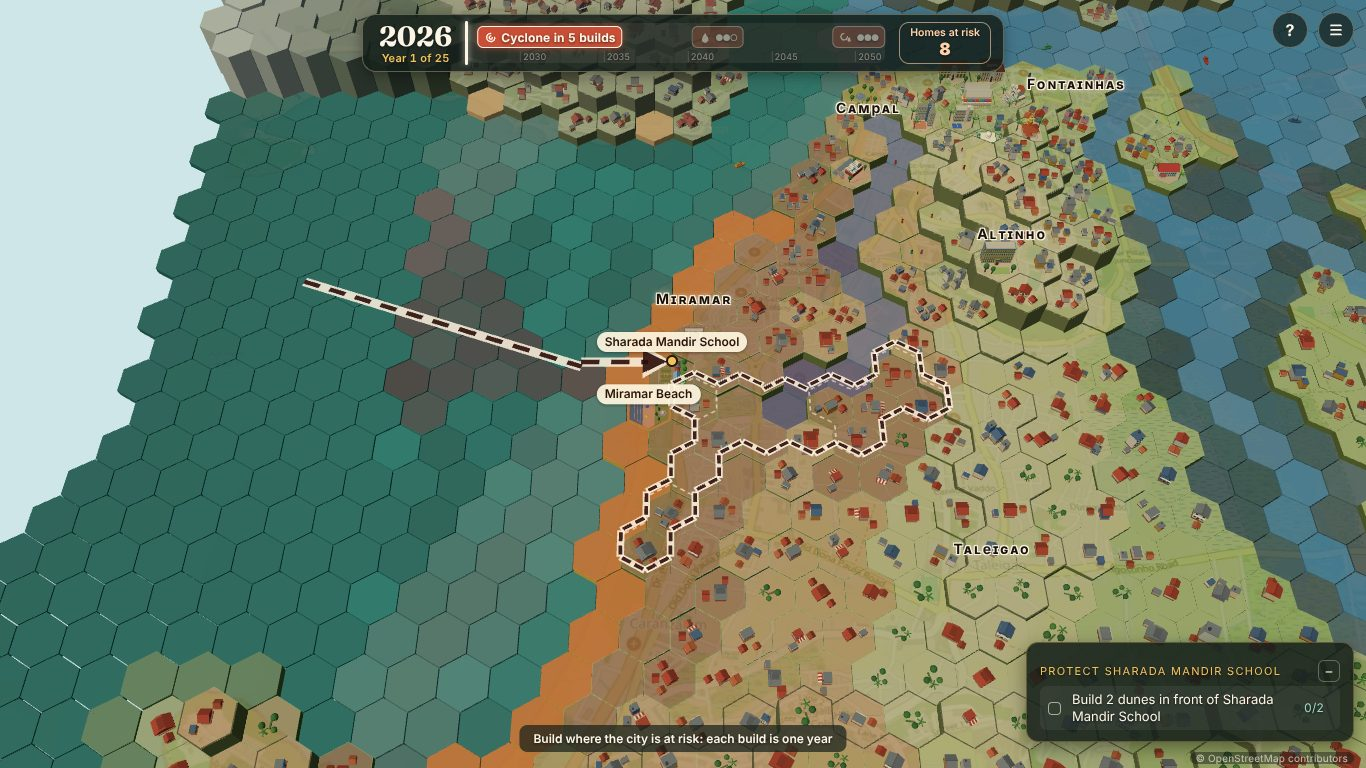
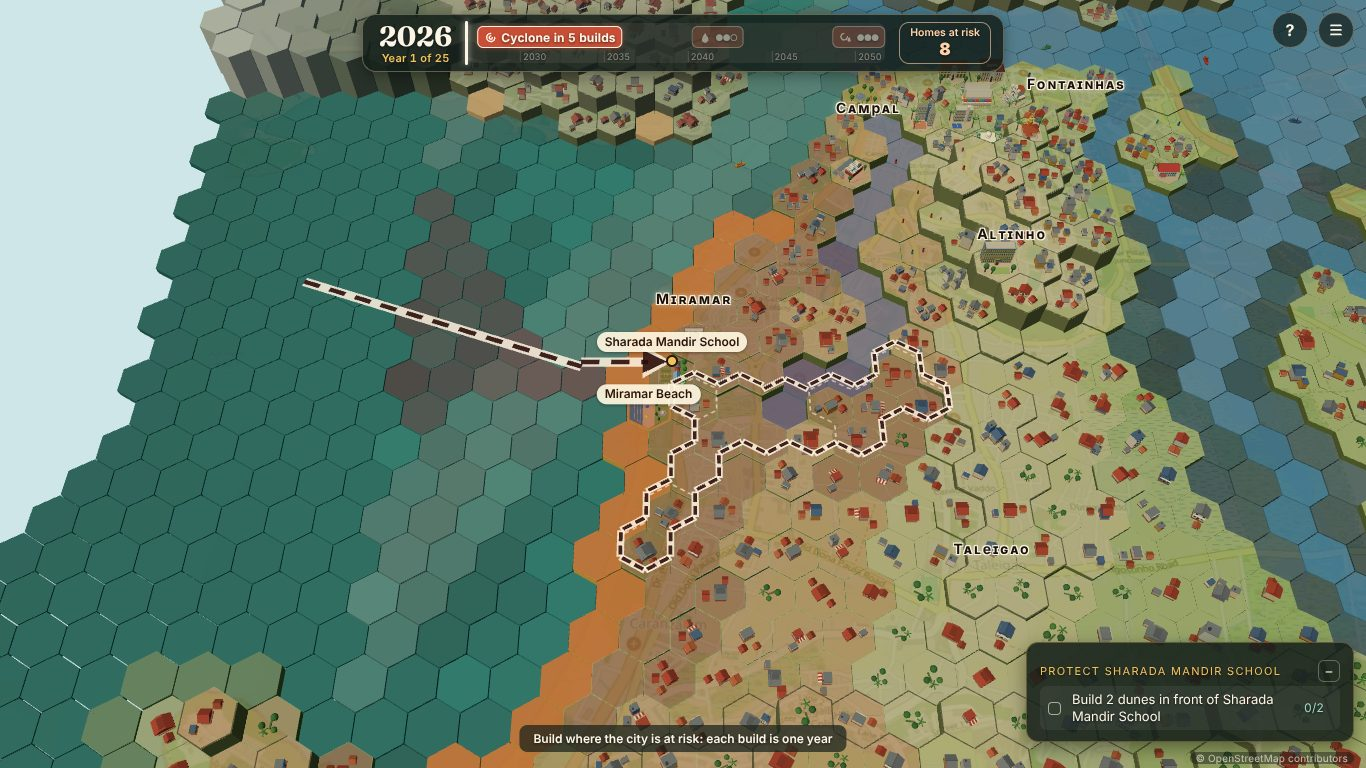
Section 19: QA report and progress notes (results to fill)
Claude-Session: https://claude.ai/code/session_01CR8PN9tFYneT4rrWy2Y36p

Changed region(s): [[0.246, 0.0938, 0.6149, 1.0], [0.3075, 0.125, 0.4305, 0.3438], [0.5842, 0.0, 0.6149, 0.0312]]

diff --git a/docs/qa/section19/bots-after.md b/docs/qa/section19/bots-after.md
@@ -2,3 +2,124 @@
 > riptide-rising@1.0.0 bots
 > tsx tools/panjimBots/index.ts
 
+## Archetypes
+
+20 seeds: bot-seed-1, bot-seed-2, bot-seed-3, bot-seed-4, bot-seed-5, bot-seed-6, bot-seed-7, bot-seed-8, bot-seed-9, bot-seed-10, bot-seed-11, bot-seed-12, bot-seed-13, bot-seed-14, bot-seed-15, bot-seed-16, bot-seed-17, bot-seed-18, bot-seed-19, bot-seed-20
+
+A run is **won** when the level ends on three stars (the storms' stars averaged and rounded: at most one storm short of three stars, none below two). **2★ every storm** is the softer reading: every storm at two stars or more.
+
+| Archetype | Won | 2★ every storm | Houses saved (all storms) | min | median | max | Stars per storm (mean) | Index (mean) |
+|---|---|---|---|---|---|---|---|---|
+| casual | 0/20 (0%) | 0/20 | 70% | 64% | 70% | 81% | 1.0 / 3.0 / 2.0 | 55 |
+| greedy | 0/20 (0%) | 0/20 | 25% | 11% | 26% | 57% | 1.1 / 1.1 / 1.1 | 43 |
+| smart | 16/20 (80%) | 16/20 | 91% | 69% | 92% | 97% | 2.6 / 3.0 / 3.0 | 55 |
+| far | 0/20 (0%) | 0/20 | 0% | 0% | 0% | 0% | 1.0 / 1.0 / 1.0 | 24 |
+
+Greedy beats Casual on 0 of 20 seeds.
+
+## How often the wind decides a home (Section 12)
+
+Homes lost whose water alone stayed under the house-loss line: the wind tipped them. Mean per run, and as a share of the homes lost in that storm.
+
+| Archetype | 2030 cyclone | 2040 flood | 2050 compound |
+|---|---|---|---|
+| casual | 0.0 (0%) | 0.0 (0%) | 0.6 (2%) |
+| greedy | 0.0 (0%) | 0.0 (0%) | 1.0 (1%) |
+| smart | 0.0 (0%) | 0.0 (0%) | 0.0 (0%) |
+| far | 0.0 (0%) | 0.0 (0%) | 1.0 (1%) |
+
+## Every run
+
+| Archetype | Seed | Storm 1 saved | Storm 2 saved | Storm 3 saved | All | Stars | Won | Builds | Resilience | Biodiversity | Population | Food |
+|---|---|---|---|---|---|---|---|---|---|---|---|---|
+| casual | bot-seed-1 | 3/8 | 54/62 | 75/106 | 75% | 132 | no | 25 | 68 | 13 | 46 | 36 |
+| casual | bot-seed-2 | 3/8 | 57/62 | 72/106 | 75% | 132 | no | 25 | 68 | 25 | 45 | 39 |
+| casual | bot-seed-3 | 3/8 | 52/62 | 60/106 | 65% | 132 | no | 25 | 62 | 17 | 44 | 43 |
+| casual | bot-seed-4 | 3/8 | 46/62 | 64/106 | 64% | 122 | no | 25 | 62 | 8 | 44 | 34 |
+| casual | bot-seed-5 | 3/8 | 57/62 | 57/106 | 66% | 132 | no | 25 | 63 | 40 | 44 | 44 |
+| casual | bot-seed-6 | 3/8 | 56/62 | 72/106 | 74% | 132 | no | 25 | 68 | 20 | 45 | 36 |
+| casual | bot-seed-7 | 3/8 | 57/62 | 80/106 | 80% | 132 | no | 25 | 71 | 25 | 46 | 42 |
+| casual | bot-seed-8 | 3/8 | 60/62 | 74/106 | 78% | 132 | no | 25 | 70 | 3 | 45 | 39 |
+| casual | bot-seed-9 | 3/8 | 54/62 | 64/106 | 69% | 132 | no | 25 | 64 | 0 | 44 | 34 |
+| casual | bot-seed-10 | 3/8 | 55/62 | 66/106 | 70% | 132 | no | 25 | 65 | 28 | 45 | 43 |
+| casual | bot-seed-11 | 3/8 | 55/62 | 61/106 | 68% | 132 | no | 25 | 64 | 23 | 44 | 46 |
+| casual | bot-seed-12 | 3/8 | 56/62 | 55/106 | 65% | 132 | no | 25 | 62 | 28 | 44 | 41 |
+| casual | bot-seed-13 | 3/8 | 56/62 | 64/106 | 70% | 132 | no | 25 | 65 | 12 | 44 | 40 |
+| casual | bot-seed-14 | 3/8 | 55/62 | 84/106 | 81% | 133 | no | 25 | 72 | 10 | 46 | 35 |
+| casual | bot-seed-15 | 3/8 | 61/62 | 62/106 | 72% | 132 | no | 25 | 66 | 18 | 44 | 40 |
+| casual | bot-seed-16 | 3/8 | 53/62 | 59/106 | 65% | 132 | no | 25 | 62 | 28 | 44 | 40 |
+| casual | bot-seed-17 | 3/8 | 52/62 | 58/106 | 64% | 132 | no | 25 | 62 | 43 | 44 | 49 |
+| casual | bot-seed-18 | 3/8 | 56/62 | 62/106 | 69% | 132 | no | 25 | 64 | 42 | 44 | 40 |
+| casual | bot-seed-19 | 3/8 | 50/62 | 59/106 | 64% | 132 | no | 25 | 61 | 18 | 44 | 43 |
+| casual | bot-seed-20 | 3/8 | 56/62 | 73/106 | 75% | 132 | no | 25 | 68 | 52 | 45 | 48 |
+| greedy | bot-seed-1 | 0/8 | 44/62 | 57/106 | 57% | 122 | no | 25 | 47 | 53 | 44 | 62 |
+| greedy | bot-seed-2 | 0/8 | 10/62 | 41/106 | 29% | 111 | no | 25 | 34 | 0 | 42 | 24 |
+| greedy | bot-seed-3 | 0/8 | 9/62 | 36/106 | 26% | 111 | no | 25 | 31 | 0 | 42 | 27 |
+| greedy | bot-seed-4 | 7/8 | 17/62 | 18/106 | 24% | 311 | no | 25 | 48 | 8 | 40 | 29 |
+| greedy | bot-seed-5 | 0/8 | 25/62 | 25/106 | 28% | 111 | no | 25 | 27 | 2 | 41 | 37 |
+| greedy | bot-seed-6 | 0/8 | 18/62 | 10/106 | 16% | 111 | no | 25 | 16 | 10 | 39 | 48 |
+| greedy | bot-seed-7 | 0/8 | 13/62 | 43/106 | 32% | 111 | no | 25 | 36 | 0 | 42 | 24 |
+| greedy | bot-seed-8 | 0/8 | 16/62 | 24/106 | 23% | 111 | no | 25 | 24 | 0 | 41 | 32 |
+| greedy | bot-seed-9 | 0/8 | 21/62 | 18/106 | 22% | 111 | no | 25 | 22 | 0 | 40 | 32 |
+| greedy | bot-seed-10 | 0/8 | 27/62 | 28/106 | 31% | 111 | no | 25 | 29 | 17 | 41 | 46 |
+| greedy | bot-seed-11 | 0/8 | 21/62 | 19/106 | 23% | 111 | no | 25 | 22 | 0 | 40 | 29 |
+| greedy | bot-seed-12 | 2/8 | 14/62 | 17/106 | 19% | 111 | no | 25 | 27 | 60 | 40 | 59 |
+| greedy | bot-seed-13 | 0/8 | 36/62 | 32/106 | 39% | 121 | no | 25 | 34 | 43 | 41 | 55 |
+| greedy | bot-seed-14 | 2/8 | 3/62 | 17/106 | 13% | 111 | no | 25 | 23 | 0 | 40 | 14 |
+| greedy | bot-seed-15 | 2/8 | 23/62 | 22/106 | 27% | 111 | no | 25 | 33 | 0 | 40 | 38 |
+| greedy | bot-seed-16 | 2/8 | 28/62 | 14/106 | 25% | 111 | no | 25 | 30 | 2 | 40 | 35 |
+| greedy | bot-seed-17 | 0/8 | 27/62 | 23/106 | 28% | 111 | no | 25 | 26 | 17 | 40 | 47 |
+| greedy | bot-seed-18 | 0/8 | 21/62 | 26/106 | 27% | 111 | no | 25 | 26 | 10 | 41 | 49 |
+| greedy | bot-seed-19 | 1/8 | 8/62 | 10/106 | 11% | 111 | no | 25 | 16 | 0 | 39 | 21 |
+| greedy | bot-seed-20 | 0/8 | 10/62 | 9/106 | 11% | 111 | no | 25 | 12 | 0 | 39 | 24 |
+| smart | bot-seed-1 | 8/8 | 58/62 | 101/106 | 95% | 333 | yes | 25 | 98 | 0 | 48 | 22 |
+| smart | bot-seed-2 | 8/8 | 58/62 | 102/106 | 95% | 333 | yes | 25 | 98 | 0 | 48 | 22 |
+| smart | bot-seed-3 | 8/8 | 55/62 | 95/106 | 90% | 333 | yes | 25 | 95 | 8 | 47 | 31 |
+| smart | bot-seed-4 | 3/8 | 57/62 | 96/106 | 89% | 133 | no | 25 | 76 | 0 | 48 | 25 |
+| smart | bot-seed-5 | 8/8 | 55/62 | 91/106 | 88% | 333 | yes | 25 | 94 | 42 | 47 | 41 |
+| smart | bot-seed-6 | 3/8 | 54/62 | 88/106 | 82% | 133 | no | 25 | 73 | 5 | 47 | 35 |
+| smart | bot-seed-7 | 8/8 | 58/62 | 102/106 | 95% | 333 | yes | 25 | 98 | 0 | 48 | 22 |
+| smart | bot-seed-8 | 8/8 | 58/62 | 102/106 | 95% | 333 | yes | 25 | 98 | 0 | 48 | 25 |
+| smart | bot-seed-9 | 8/8 | 54/62 | 98/106 | 91% | 333 | yes | 25 | 96 | 8 | 48 | 28 |
+| smart | bot-seed-10 | 3/8 | 56/62 | 95/106 | 88% | 133 | no | 25 | 76 | 10 | 47 | 28 |
+| smart | bot-seed-11 | 8/8 | 58/62 | 96/106 | 92% | 333 | yes | 25 | 96 | 0 | 48 | 28 |
+| smart | bot-seed-12 | 3/8 | 53/62 | 65/106 | 69% | 132 | no | 25 | 65 | 8 | 45 | 34 |
+| smart | bot-seed-13 | 8/8 | 58/62 | 102/106 | 95% | 333 | yes | 25 | 98 | 5 | 48 | 28 |
+| smart | bot-seed-14 | 8/8 | 59/62 | 103/106 | 97% | 333 | yes | 25 | 98 | 0 | 48 | 22 |
+| smart | bot-seed-15 | 8/8 | 54/62 | 92/106 | 88% | 333 | yes | 25 | 94 | 5 | 47 | 35 |
+| smart | bot-seed-16 | 8/8 | 58/62 | 96/106 | 92% | 333 | yes | 25 | 96 | 0 | 48 | 25 |
+| smart | bot-seed-17 | 8/8 | 58/62 | 102/106 | 95% | 333 | yes | 25 | 98 | 0 | 48 | 22 |
+| smart | bot-seed-18 | 8/8 | 58/62 | 102/106 | 95% | 333 | yes | 25 | 98 | 0 | 48 | 25 |
+| smart | bot-seed-19 | 8/8 | 58/62 | 101/106 | 95% | 333 | yes | 25 | 98 | 0 | 48 | 28 |
+| smart | bot-seed-20 | 8/8 | 55/62 | 87/106 | 85% | 333 | yes | 25 | 92 | 18 | 47 | 35 |
+| far | bot-seed-1 | 0/8 | 0/62 | 0/106 | 0% | 111 | no | 25 | 0 | 0 | 38 | 16 |
+| far | bot-seed-2 | 0/8 | 0/62 | 0/106 | 0% | 111 | no | 25 | 0 | 0 | 38 | 16 |
+| far | bot-seed-3 | 0/8 | 0/62 | 0/106 | 0% | 111 | no | 25 | 0 | 0 | 38 | 16 |
+| far | bot-seed-4 | 0/8 | 0/62 | 0/106 | 0% | 111 | no | 25 | 0 | 0 | 38 | 16 |
+| far | bot-seed-5 | 0/8 | 0/62 | 0/106 | 0% | 111 | no | 25 | 0 | 0 | 38 | 16 |
+| far | bot-seed-6 | 0/8 | 0/62 | 0/106 | 0% | 111 | no | 25 | 0 | 0 | 38 | 16 |
+| far | bot-seed-7 | 0/8 | 0/62 | 0/106 | 0% | 111 | no | 25 | 0 | 0 | 38 | 16 |
+| far | bot-seed-8 | 0/8 | 0/62 | 0/106 | 0% | 111 | no | 25 | 0 | 0 | 38 | 16 |
+| far | bot-seed-9 | 0/8 | 0/62 | 0/106 | 0% | 111 | no | 25 | 0 | 0 | 38 | 16 |
+| far | bot-seed-10 | 0/8 | 0/62 | 0/106 | 0% | 111 | no | 25 | 0 | 0 | 38 | 16 |
+| far | bot-seed-11 | 0/8 | 0/62 | 0/106 | 0% | 111 | no | 25 | 0 | 0 | 38 | 16 |
+| far | bot-seed-12 | 0/8 | 0/62 | 0/106 | 0% | 111 | no | 25 | 0 | 0 | 38 | 16 |
+| far | bot-seed-13 | 0/8 | 0/62 | 0/106 | 0% | 111 | no | 25 | 0 | 0 | 38 | 16 |
+| far | bot-seed-14 | 0/8 | 0/62 | 0/106 | 0% | 111 | no | 25 | 0 | 0 | 38 | 16 |
+| far | bot-seed-15 | 0/8 | 0/62 | 0/106 | 0% | 111 | no | 25 | 0 | 0 | 38 | 16 |
+| far | bot-seed-16 | 0/8 | 0/62 | 0/106 | 0% | 111 | no | 25 | 0 | 0 | 38 | 16 |
+| far | bot-seed-17 | 0/8 | 0/62 | 0/106 | 0% | 111 | no | 25 | 0 | 0 | 38 | 16 |
+| far | bot-seed-18 | 0/8 | 0/62 | 0/106 | 0% | 111 | no | 25 | 0 | 0 | 38 | 16 |
+| far | bot-seed-19 | 0/8 | 0/62 | 0/106 | 0% | 111 | no | 25 | 0 | 0 | 38 | 16 |
+| far | bot-seed-20 | 0/8 | 0/62 | 0/106 | 0% | 111 | no | 25 | 0 | 0 | 38 | 16 |
+
+## What each builds (mean per run)
+
+Away: builds made where no storm's water reaches (they protect nothing, so they are not counted as defences).
+
+| Archetype | dune | sandy_vegetation | seawall | breakwater | mangrove | khazan | small_dam | away |
+|---|---|---|---|---|---|---|---|---|
+| casual | 1.6 | 1.4 | 3.0 | 1.3 | 4.8 | 5.5 | 7.5 | 0.0 |
+| greedy | 0.8 | 1.1 | 3.5 | 4.0 | 3.9 | 3.8 | 8.0 | 0.0 |
+| smart | 1.7 | 1.4 | 3.1 | 3.7 | 3.5 | 3.5 | 8.2 | 0.0 |
+| far | 0.0 | 0.0 | 0.0 | 0.0 | 0.0 | 0.0 | 0.0 | 25.0 |

diff --git a/docs/QA_REPORT.md b/docs/QA_REPORT.md
@@ -1765,3 +1765,62 @@ Seven more draw calls (one per decal) and about 7,800 more triangles (2% of the 
 MINOR fixed: Sharada's skylights sat inside the roof; `monumentGeometryKey` built every model just to test it; the dolphins' water tiles were rebuilt from strings every second (now worked out once); a leap could carry a dolphin past the checked water (now checked, with a narrow channel test); the dolphin fact said "stay" where the source says "prefer" (now "usually stay … in shallow water"); the dolphins were too pink (paler now, with a clearer beak); the mosque's three quarter shot was hidden by a hill and the cone's arrow crossed two close ups. NIT fixed: comments; the Field Guide's header no longer says creatures "visit what you build". Reported, not changed: the church's facing (above).
 
 **Sources not opened directly.** The two dolphin sources (Mongabay India, 22 January 2018; Down To Earth, undated) are blocked by this container's network; their claims were checked against their own text as quoted in search results. Open both before release.
+
+# Section 19 — the owner's third map round; the east edge out of Panjim
+
+Branch `section-19-map-east-edge`, off master `9758162` (Section 18's merge; tag `pre-section-19`, and `backup/pre-section-19` on GitHub). Headless Chromium with software GL. Evidence in `docs/qa/section19/`. The owner's files: `docs/reference/panaji_owner_edits.json`, `docs/reference/east_cut.png`.
+
+| Gate | Result |
+|---|---|
+| `tsc --noEmit`, `npm run test`, `npm run build` | Clean; 573 tests pass, 6 skipped. New: three east edge tests in `scenery` (scenery on all its dry tiles and nowhere else east of the line, 121 on rows 5 to 36; Ribandar out, Merces and St Cruz and the flood's source in; the note). Updated, each with its reason in the test: `panajiHandEdits` (three rounds, 204 edits, 256 unplayable), `forecastCone` and `phaseResult` (the first cyclone takes 8, -7,24 is beach), `phaseObjectives` (the dunes save all 8), `section4` (the plain finale plan: 9% each, 12% mean, from 10% and 15%), `panjimBots` (Casual 60 to 82%, from 80%). The rules for scenery (no build, never counted in a storm, cone, heat, area or result; drawn wet) run over every stored tile, so they cover the east edge. |
+| `npm run mapgen:panaji` | Clean. Terrain equals the owner's file tile for tile; master and the branch differ by exactly the 34 edits; no place moved. |
+| Section 19 checks (`tools/section19Shots.ts`) | SHOTS_RESULT |
+| `npm run walkthrough`, `test:labels` | WALK_RESULT |
+| `test:layout`, `test:maya` (Maya switched on, `VITE_SHOW_MAYA=true`; she is hidden as shipped) | LAYOUT_RESULT |
+| Preview equals resolution | `tests/exposure.test.ts`, `tests/preview.test.ts` pass. |
+| Bots, 20 seeds | See below (`bots-before.md`, `bots-after.md`). |
+| Cross-browser, real GPU | Not run: Chromium with software GL only. |
+
+**19.1 The owner's edits** (`tools/mapgen/panaji-hand-edits.json`, the third round, the last 34 entries):
+- The diff of the owner's file against master's map is exactly the 34 listed edits, and no place moves.
+- Heights: the Copernicus DEM, by the method in `panaji.json`, from the crop checked in (the network was not needed). Changed tiles keep their DEM height; the new tile 33,3 is 0 m. Some new water keeps a high DEM height (the creek head 8,26 at 25.5 m): the water model reads it as ground, so no water goes there; as on master (7,9).
+- Bridges: +17,4, +30,4, +31,4 (now river), +9,23 (now estuary). No bridge is left on land. Road: +-4,20 (now land).
+- Zones: z4 (Mandovi waterfront) gains the new river 11,4 to 15,4 and 17,4; z2 (the wetlands) loses its five tiles east of the line (22,17 23,15 23,16 24,14 24,15). No zone holds a scenery tile.
+- Houses, playable: 421 → 347 (scenery houses 89 → 158).
+- Miramar: Miramar Beach (-4,19) is still beach, with the new land at -4,20 behind it. The 2026 cone covers the beach strip and both; the objective's two dunes stand on the beach either side, at -4,18 and -5,20 (`miramar-cone-2026-*`).
+
+**19.2 The east edge** (`east-edge-*`):
+- Unplayable: 148 → 256. The north bank is 135 (it lost 14 tiles to the owner's new river and gained 23,1, now estuary; 4 of them, on row 0, lie east of the line too). The east edge adds 121, rows 5 to 36, 3 or 4 a row. The owner asked about 124: the band holds 125 dry tiles, 4 of them north bank already, and row 4 has none, since 30 to 32,4 are river now.
+- Ribandar (30,5) is out; Merces (19,16) and St Cruz (13,22) are in. River and sea stay playable: the channel at 30 to 32,4 and the flood's source 33,1, 33,2 and 32,3 are river.
+- A click there: "Outside Panjim, not part of this game" (the north bank keeps "North of the Mandovi: not part of this game"). Grey with the soft edge, no build menu, houses never counted, hazards draw but never count, cones, areas and heat never include them, bots never build there: the same rules as the north bank.
+- Ribandar's label stood on scenery: a locality on scenery is now out of the game (no label, never the place a home, row or area is named after; `levelMap.ts`). The 12 playable tiles west of the line it named now belong to Merces.
+
+**19.3 The storms, undefended** (`storms-before.md`, `storms-after.md`; a home takes its nearest locality's name):
+
+| Storm | Before (master) | After |
+|---|---|---|
+| 2030 cyclone (landfall -5,18, strength 1.2) | 9: Caranzalem 3, Taleigao 3, Miramar 2, Santa Inez 1 | 8: Taleigao 3, Caranzalem 2, Miramar 2, Santa Inez 1 (-7,24 is beach now) |
+| 2040 flood (from the Mandovi, 33,1 33,2 32,3) | 65: Merces 22, Taleigao 13, St Cruz 11 (46, 71%); Ribandar 9, Altinho 5, Patto 3, Campal 1, São Tomé 1 | 62: Merces 28, Taleigao 14, St Cruz 9 (51, 82%); Altinho 5, Patto 3, Atal Setu 1, Campal 1, São Tomé 1 |
+| 2050 compound (landfall 2,12, strength 2.6) | 38 | 37 |
+
+The first cyclone still comes ashore at Miramar and takes the home beside Sharada Mandir School; the flood still comes down the Mandovi through the Ribandar channel, its main impact on Taleigao, Merces and St Cruz; the 2050 storm plays as before.
+
+**Objective rows** (`objective-rows-before.md`, `objective-rows-after.md`, and the tiles behind them). Rows that pointed at a tile that changed or left the game:
+- 2030: a dune at -4,20 (now land): replaced by a dune at -5,20. Two dunes in front of the school now save all 8 (were 8 of 9).
+- 2040: a mangrove at 25,11 and a khazan at 25,12 (now east of the line): not replaced; the model finds no build there worth one, so the objective is 8 builds (1 khazan in Taleigao, 3 khazans and 2 mangroves in Merces, 2 khazans in St Cruz), homes lost 62 → 18 with every row built (65 → 15 before).
+- 2050 (following the earlier objectives): a khazan at 13,14 (now river): replaced by a mangrove at 13,15 and others; homes lost 61 → 29 (65 → 33).
+
+**Builds needed** (`builds-needed-before.md`, `-after.md`): the cyclone 1 build for 60%, 2 for 90% (unchanged); the flood 5 for 60% (unchanged), 90% not reached in 25 (best 49 of 62, was 56 of 65); the compound neither (best 33 of 61, was 34 of 65).
+
+**Bots, 20 seeds:**
+
+BOTS_TABLE
+
+**Screenshots** (1366x768 and 1920x1080): the opening view; the east edge close up (gray and deuteranopia copies at 1920); Miramar beach with the 2026 cone; the 2031 flood cone, whole and framed on the Mandovi channel; the whole board before and after in the game (`board-whole-before-1920x1080.jpg`, `board-whole-after-1920x1080.jpg`) and in the generator's class map (`board-before-after.jpg`).
+
+**Independent review: 0 BLOCKER, 2 MAJOR, 3 MINOR, 7 NIT.**
+- MAJOR, fixed: this report and PROGRESS were not yet written.
+- MAJOR, fixed: Ribandar's label stood on the grey band and 12 playable tiles still took its name (rows could say "near Ribandar"). A locality on scenery is now out of the game; tested.
+- MINOR, not changed (owner's call): the Ribandar island is at most three tiles wide and touches the river, so most of it takes the lighter edge grey and reads nearly in colour. The rule is the north bank's (it fades against any playable tile, water too); changing it would change the north bank's accepted look.
+- MINOR, fixed: the `section4` comment gave the wrong cause (the owner's tile edits took the plan's build sites; the east edge took one home); the `panajiHandEdits` comment's count (135, not 131).
+- NIT, fixed: a missing file named in a comment; comments that said scenery meant only the north bank; `NORTH` renamed `SCENERY` in the test; the hand-edits file's place moves back in their one-line form. Noted: the east line (30.2) is a constant in the generator, which checks the stored list against it; new water keeps its DEM height (above); Maya's hidden flood line still names the Ribandar channel, which is where the channel is.

diff --git a/docs/PROGRESS.md b/docs/PROGRESS.md
@@ -8809,3 +8809,10 @@ Visuals only: no hazard, balance, map, scoring or flow change. Target look: the 
 - **Landmarks (18.1).** Each of the sixteen has its own low-poly, flat-shaded, merged model (`src/render/landmarkModels.ts`), after its drawing; the generic kind models and the stylised `CIVIC_VARIANTS` are gone (`monumentGeometry.ts` now just picks the landmark's model). Facing: the church's facade to the west (turned 30 degrees back towards the camera so its twin towers read), Sharada Mandir School's pitch to the west, the Kala Academy to the north west; the palace keeps its river side north; the rest face the default camera. Scale (`monumentScale.ts`): the plan reaches at most 0.82 from the tile centre (inside the 0.866 inner radius, about 0.85 of the hex across) and the height aims at twice the tallest House beside it, the vertical scale kept within 0.75 to 1.35 of the horizontal so no model is stretched out of its drawing (the low ones, the market, the Kala Academy, Sharada Mandir, stay under 2x). Open places (Campal Garden, Miramar, Dona Paula) are drawn at 1.2. Names on buildings (DON BOSCO twice, SHARADA MANDIR SCHOOL, KALA ACADEMY, GOA STATE MUSEUM, GOVERNMENT POLYTECHNIC, DHEMPE COLLEGE) are canvas-texture decals (`landmarkDecals.ts`), never picked by the mouse and outside the label system. Pins, labels, name cards, hover and click, result-card names are unchanged. 14,420 triangles in all (was about 5,900).
 - **Humpback dolphins (18.2).** `src/render/wildlife/dolphinModel.ts` (584 triangles) and a "dolphins" moment in the wildlife director: pods of 2 to 5 (sometimes a darker young one) wander about 2 to 3 tiles over 16 to 22 s through river and coast tiles only (never land, wetland, khazan or a built tile; every point of the swim is checked), surfacing every 3 to 5 s in a slow roll with a ripple ring, about one surfacing in six a leap with splashes out and in. Same one-moment cap, flushed by storms, off on Low; with calm motion only dolphins come, two or three, further apart, never leaping. A tapped dolphin goes into the Field Guide: "Humpback Dolphin", "In this game, it swims in the open water now and then, whatever you build", with one cited fact (Mongabay India, 2018). Two new cited facts in `facts.json` (Mongabay India; Down To Earth, undated), never said on a build.
 - **Also.** The Field Guide's "Not seen yet" lines were below 4.5:1 contrast (axe, pre-existing): raised.
+
+## Section 19 — the owner's third map round; the east edge out of Panjim — DONE (QA in docs/QA_REPORT.md)
+
+Owner decisions.
+- **Map:** the owner's 34 tile edits (from the map editor, `docs/reference/panaji_owner_edits.json`) are the third round in `tools/mapgen/panaji-hand-edits.json`; the board is regenerated from them (DEM heights, roads and bridges, zones, houses). The shipped map's terrain equals the owner's file.
+- **East edge:** everything east of world x = 52.3 (q + r/2 >= 30.2) is out of Panjim: its land, beach and estuary (121 new tiles, Ribandar among them) are scenery like the north bank, stored in the hand-edits file and checked by the generator against the rule (`EAST_EDGE_Q_PLUS_HALF_R`). River and sea there stay playable. A click says "Outside Panjim, not part of this game". A locality on scenery (Ribandar) is out of the game: no label, never the place a home, row or area is named after.
+- **Numbers:** playable houses 421 → 347; the storms undefended 9, 65, 38 → 8, 62, 37; the flood's loss in Taleigao, Merces and St Cruz 71% → 82%.
